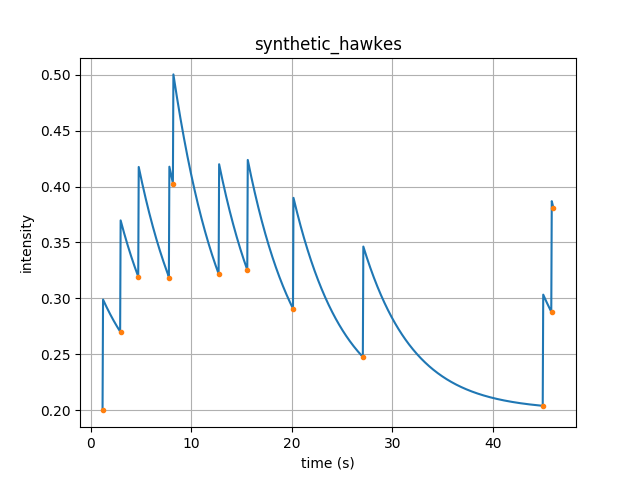
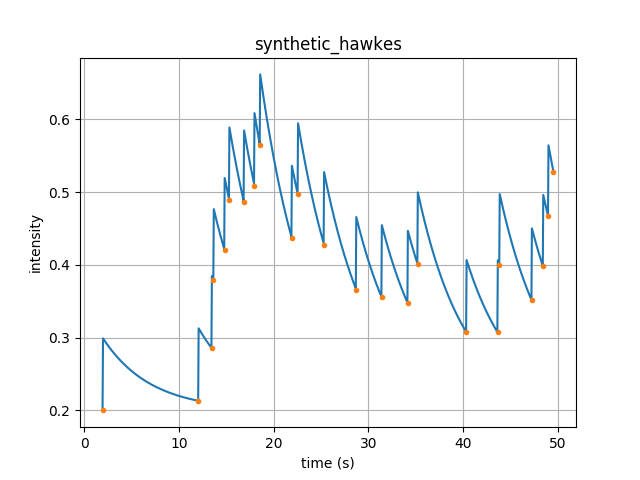
add hawkes,sc testing

diff --git a/unit_test/dataloader/test_synthetic.py b/unit_test/dataloader/test_synthetic.py
@@ -4,19 +4,84 @@ import numpy as np
 from numpy.random import default_rng
 
 from dataloader.synthetic import Synthetic
+from model.point_process import Point_Process
 from utils.args import get_args
 
 
 class Test_synthetic:
     """ Testing group for ./dataloader/synthetic.py
     """
-    def get_synthetic(self, dataset_name="synthetic",logic_name="hawkes"):
+    def get_synthetic(self, target_predicate=[1], dataset_name="synthetic",logic_name="hawkes"):
         args = get_args()
         args.dataset_name = dataset_name
+        args.target_predicate = target_predicate
         args.synthetic_logic_name = logic_name
         return Synthetic(args)
+
+    def get_pp(self,target_predicate=[1], dataset_name="synthetic",logic_name="hawkes"):
+        args = get_args()
+        args.target_predicate = target_predicate
+        args.dataset_name = dataset_name
+        args.synthetic_logic_name = logic_name
+        return Point_Process(args)
         
+    def _run_synthetic_simple(self, logic_name):
+        args = get_args()
+        args.target_predicate = [1]
+        args.dataset_name = "synthetic"
+        args.synthetic_logic_name = logic_name
+        args.synthetic_time_horizon = 50
+        dataloader = Synthetic(args)
+        seed = 1
+        dataset = dataloader.generate_data(sample_ID_lb=0, sample_ID_ub=1, seed=seed)
+
+        pp = Point_Process(args)
+        pp.set_parameters(w=dataloader.model._parameters["weight"], b=dataloader.model._parameters["base"], requires_grad=False)
+        rng = default_rng(seed)
+        expected_dataset = {0:{}}
+        expected_dataset[0][1] = {"time":[0], "state":[0]}
+        expected_dataset[0][0] = expected_dataset[0][1]
+        cur_time = 0
+        while cur_time < args.synthetic_time_horizon:
+            if logic_name == "hawkes":
+                t_m = cur_time
+            else:
+                t_m = cur_time + args.synthetic_time_horizon
+            intensity_m = pp.intensity(t=t_m, dataset=expected_dataset, sample_ID=0, target_predicate=1)
+            dwell_time = rng.exponential(scale=1.0/intensity_m).item()
+            cur_time += dwell_time
+            if cur_time > args.synthetic_time_horizon:
+                break
+            # following line is dummy, only used to keep same rng with synthetic.py
+            pred_idx = rng.choice(2, 1, p=[0,1])
+            intensity_ = pp.intensity(t=cur_time, dataset=expected_dataset, sample_ID=0, target_predicate=1)
+            accept_rate = intensity_ / intensity_m
+            if rng.random() < accept_rate:
+                expected_dataset[0][1]["time"].append(cur_time)
+                cur_time += (args.time_tolerence * 1.1 )
+                expected_dataset[0][1]["time"].append(cur_time)
+                expected_dataset[0][1]["state"].extend([1,0])
+        
+        expected_data = expected_dataset[0][1]["time"]
+        real_data = dataset[0][1]["time"]
+        #print(real_data)
+        #print(expected_data)
+        for i in range(len(real_data)):
+            assert abs(real_data[i] - expected_data[i]) < 1e-5
+    
     def test_hawkes(self):
-        dataloader = self.get_synthetic()
-        dataset = dataloader.generate_data(sample_ID_lb=0, sample_ID_ub=1, seed=1)
+        self._run_synthetic_simple(logic_name="hawkes")
+    def test_sc(self):
+        self._run_synthetic_simple(logic_name="self_correcting")
+
+
+if __name__ == "__main__":
+    t = Test_synthetic()
+    t.test_sc()
+    #d = t.test_hawkes()
+    #print(d)
+            
+
+
+
         

diff --git a/dataloader/synthetic.py b/dataloader/synthetic.py
@@ -74,7 +74,7 @@ class Synthetic:
         if not is_duration_pred:
             data["time"].append(t)
             data["state"].append(last_state)
-        t += (self.args.time_tolerence * 1.0001 ) #add time_tolerence to allow BEFORE captures this event.
+        t += (self.args.time_tolerence * 1.1 ) #add time_tolerence to allow BEFORE captures this event.
         return t
 
     def generate_data(self, sample_ID_lb, sample_ID_ub, seed):
@@ -133,6 +133,7 @@ class Synthetic:
 
                     # the next event
                     dwell_time = rng.exponential(scale=1.0/ np.sum(intensity_m))
+                    
                     pred_idx = rng.choice(self.num_predicate, 1, p=intensity_m / np.sum(intensity_m)).item()
                     # since copied predicates have 0 probabililty, they won't be sampeld.
                     # only the real predicates will be sampled.
@@ -172,14 +173,14 @@ if __name__ == "__main__":
     args.dataset_name = "synthetic"
     args.target_predicate = [1]
     args.synthetic_logic_name = "hawkes"#"self_correcting"
-    args.synthetic_training_sample_num = 10
-    args.synthetic_testing_sample_num = 10
+    args.synthetic_training_sample_num = 1
+    args.synthetic_testing_sample_num = 0
     args.synthetic_time_horizon = 50
     args.synthetic_weight = 0.1
     args.synthetic_base = 0.2
     s = Synthetic(args)
-    s.draw_dataset()
-    train_data_set = s.get_dataset(1)
+    #s.draw_dataset()
+    train_data_set = s.generate_data(sample_ID_lb=0, sample_ID_ub=1, seed=1)
     print(train_data_set)
     
     #print(test_data_set)

diff --git a/logic/a_then_b_logic.py b/logic/a_then_b_logic.py
@@ -13,7 +13,7 @@ class A_Then_B_logic:
         self.EQUAL = 1000
         
         self.R_matrix = self.__get_R_matrix()
-        self.logic_rule_list, self.time_template_list, self.formula_ind_to_rule_ind, self.predicate_mapping, self.independent_predicate = self.__get_logic_formulas()
+        self.logic_rule_list, self.time_template_list, self.formula_ind_to_rule_ind, self.predicate_mapping, self.independent_predicate, self.is_duration_pred = self.__get_logic_formulas()
 
     def __get_R_matrix(self) -> np.ndarray:
         #relation matrix
@@ -43,6 +43,11 @@ class A_Then_B_logic:
         # we thus do not care about their intensity, and synthetic them randomly.
         independent_predicate = [0]
 
+        #### Begin is_duration_pred
+        # is_duration_pred[i] = True means pred i may keeps state in some duration.
+        # otherwise, pred i keep a certain state in all time, and only switch to the other state in infinite-small time.
+        is_duration_pred = [0,0]
+
         formula_ind_to_rule_ind = [0] * self.num_formula
 
         for i in range(len(formula_ind_to_rule_ind)):
@@ -51,7 +56,7 @@ class A_Then_B_logic:
         logic_rule_list = [logic_f0,]
         time_template_list = [time_template_f0,]
 
-        return logic_rule_list, time_template_list, formula_ind_to_rule_ind, predicate_mapping, independent_predicate
+        return logic_rule_list, time_template_list, formula_ind_to_rule_ind, predicate_mapping, independent_predicate, is_duration_pred
 
 if __name__ == "__main__":
     logic = A_Then_B_logic()

diff --git a/model/point_process.py b/model/point_process.py
@@ -30,9 +30,9 @@ class Point_Process:
         # cache
         self.feature_cache = dict()
     
-    def set_parameters(self, w:float, b:float):
-        self._parameters["weight"] = torch.autograd.Variable((torch.ones(self.num_formula)* w).double(), requires_grad=True)
-        self._parameters["base"] = torch.autograd.Variable((torch.ones(self.num_predicate)* b).double(), requires_grad=True)
+    def set_parameters(self, w:float, b:float, requires_grad:bool=True):
+        self._parameters["weight"] = torch.autograd.Variable((torch.ones(self.num_formula)* w).double(), requires_grad=requires_grad)
+        self._parameters["base"] = torch.autograd.Variable((torch.ones(self.num_predicate)* b).double(), requires_grad=requires_grad)
         
     def _check_state(self, seq:Dict[str, List], cur_time:float) -> int:
         """check state of seq at cur_time

diff --git a/utils/args.py b/utils/args.py
@@ -33,6 +33,8 @@ def get_args():
                         help="ground truth weight of synthetic data")
     parser.add_argument('--synthetic_base', type=float, default=0.2,
                         help="ground truth base of synthetic data")
+    parser.add_argument('--intensity_indep_pred', type=float, default=0.2,
+                        help="intensity of independent predicates.")
     
     
     #dataset general setting
